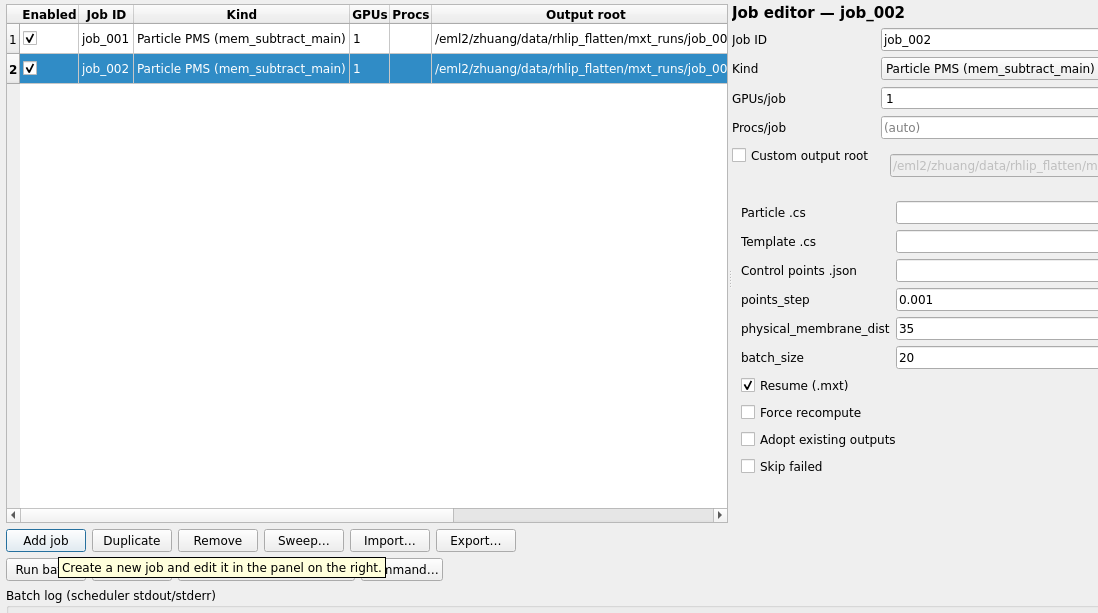
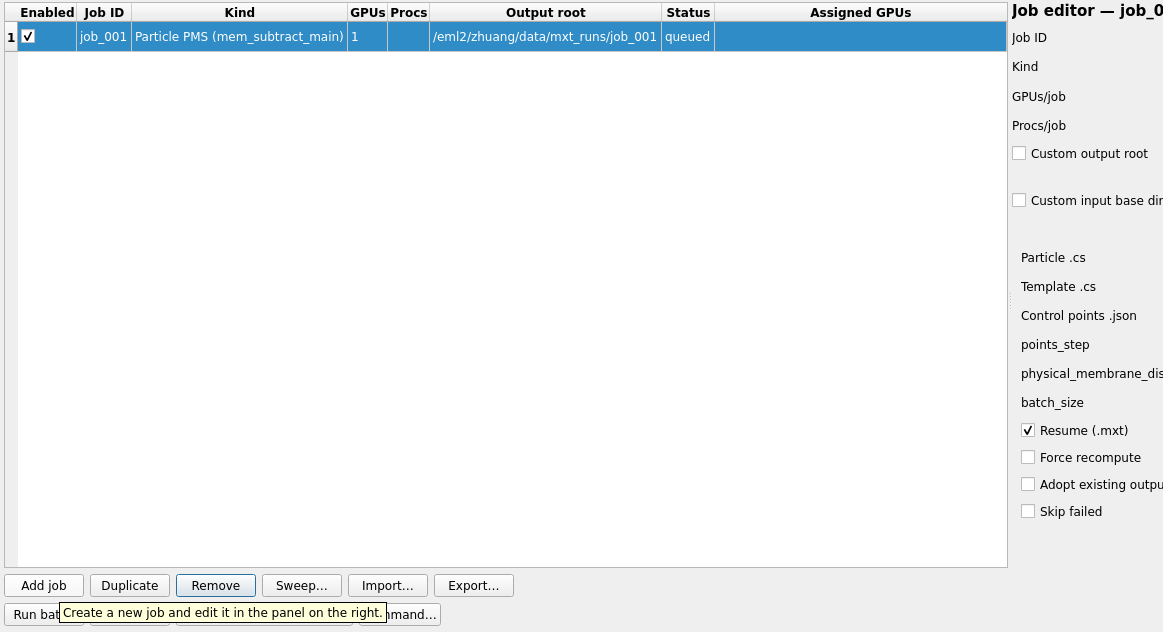
docs(Bezierfit): document and illustrate the input_base_dir parameter to resolve relative paths in CryoSPARC .cs and STAR files for both batch scheduler and CLI operations.

diff --git a/wiki/docs/tutorials/bezierfit-tutorials/bezierfit-batch-scheduler.md b/wiki/docs/tutorials/bezierfit-tutorials/bezierfit-batch-scheduler.md
@@ -44,6 +44,20 @@ Internally, the scheduler sets `CUDA_VISIBLE_DEVICES` for each job, so the job o
 
 Each job writes to its own isolated directory specified by `output_root`. This prevents jobs from interfering with each other and makes it easy to compare results from different parameter settings.
 
+### 2.4 Input Base Directory
+
+CryoSPARC `.cs` files and STAR files often contain **relative paths** (e.g., `J220/extract/particles.mrcs`). Because the batch scheduler runs each job with its working directory set to `<output_root>`, these relative paths may fail to resolve correctly, resulting in `FileNotFoundError`.
+
+The `input_base_dir` argument solves this by specifying the directory from which relative paths inside the input files should be resolved:
+
+* **Auto-inference (default)**: The scheduler automatically infers `input_base_dir` from your primary input file. For CryoSPARC layouts (where the `.cs` or `.star` file lives directly under a `J###/` folder), it infers the parent directory of that `J###/` folder (e.g., `/data/project/` if the input is `/data/project/J220/particles_selected.cs`).
+* **Manual override**: You can explicitly set `input_base_dir` if the auto-inferred value is incorrect or if your file layout differs from the standard CryoSPARC structure.
+
+![Before Auto-parse Input Base Directory](../../assets/images/batch_scheduler_autoparse_input_base_before.png){: .small}
+
+![Auto-parsed Input Base Directory](../../assets/images/batch_scheduler_autoparse_input_base_after.png){: .small}
+<span class="caption">Auto-parse Input Base Directory</span>
+
 For example, if you run two PMS jobs with different `points_step` values, you might use:
 
 * Job 1: `output_root = /runs/pms_step_0.001`
@@ -77,7 +91,14 @@ For each job, configure:
 * **Output Root**: Directory where this job's outputs will be written
 * **GPUs**: Number of GPUs required by this job
 * **Procs**: Number of worker processes (defaults to number of GPUs)
+* **Input Base Dir**: Base directory for resolving relative paths in input files (see below)
 * **Job-specific parameters**: File paths and processing options
+
+!!! Note "Per-Job Input Base Directory"
+    Each job has an **Input Base Dir** field with a **Custom input base dir** checkbox and a **Browse** button.
+
+    - **Default (recommended)**: Leave **Custom input base dir** unchecked. The field shows the auto-inferred value (read-only) based on your primary input file.
+    - **Manual override**: If the auto-inferred path is incorrect (e.g., non-standard CryoSPARC layout), check **Custom input base dir** and browse to the correct CryoSPARC project root (the directory containing the `J###/` folders) or the directory that makes the relative paths inside your `.cs`/`.star` resolve correctly.
 
 ### 3.3 Create Parameter Sweeps
 
@@ -159,6 +180,7 @@ The CLI uses a JSON specification file. Here's a minimal example that runs two P
         "control_points": "/path/to/control_points.json",
         "points_step": 0.001,
         "physical_membrane_dist": 35,
+        "input_base_dir": "/path/to/cryosparc_project",
         "resume": true
       }
     },
@@ -177,12 +199,16 @@ The CLI uses a JSON specification file. Here's a minimal example that runs two P
         "control_points": "/path/to/control_points.json",
         "points_step": 0.002,
         "physical_membrane_dist": 35,
+        "input_base_dir": "/path/to/cryosparc_project",
         "resume": true
       }
     }
   ]
 }
 ```
+
+!!! Tip "Exported JSON includes input_base_dir"
+    When you export a batch specification from the GUI, `input_base_dir` is explicitly included in each job's `args` for reproducibility, even if it was auto-inferred.
 
 ### 4.2 Run the Batch
 
@@ -223,6 +249,7 @@ Optional CLI overrides:
 | `points_step` | Yes | Bezier curve sampling step (e.g., 0.001) |
 | `physical_membrane_dist` | Yes | Membrane thickness in Å (e.g., 35) |
 | `batch_size` | No | Minibatch size (default: 20) |
+| `input_base_dir` | No | Base directory for resolving relative paths in input files (auto-inferred from input file if not set) |
 | `resume` | No | Resume from `.mxt` checkpoints (default: true) |
 | `force` | No | Force recompute all (default: false) |
 
@@ -232,6 +259,7 @@ Optional CLI overrides:
 |----------|----------|-------------|
 | `particle` | Yes | Path to `particles_selected.star` |
 | `batch_size` | No | Minibatch size (default: 30) |
+| `input_base_dir` | No | Base directory for resolving relative paths in input files (auto-inferred from input file if not set) |
 | `resume` | No | Resume from `.mxt` checkpoints (default: true) |
 | `require_particle_mxt` | No | Require PMS completion (default: true) |
 
@@ -326,6 +354,23 @@ For PMS jobs, subtracted particles appear in:
 ```
 
 ## 6 Troubleshooting
+
+### FileNotFoundError on Relative Paths (J###/extract/...)
+
+If jobs fail with errors like:
+
+```
+FileNotFoundError: [Errno 2] No such file or directory: 'J220/extract/particles.mrcs'
+```
+
+This occurs because CryoSPARC `.cs` and STAR files often store **relative paths** (e.g., `J220/extract/...`). The batch scheduler runs each job with its working directory set to `<output_root>`, so these relative paths cannot be resolved.
+
+**Solution:** Set `input_base_dir` to your CryoSPARC project root (the directory containing `J###` folders):
+
+* **GUI**: In the job's **Input Base Dir** field, check **Custom input base dir** and browse to your CryoSPARC project directory.
+* **CLI/JSON**: Add `"input_base_dir": "/path/to/cryosparc_project"` to the job's `args` section.
+
+In most cases, the auto-inferred value should work correctly. If you see this error, verify that the inferred path matches your CryoSPARC project layout.
 
 ### CuPy/CUDA Not Available
 

diff --git a/wiki/docs/tutorials/bezierfit-tutorials/bezierfit-mms.md b/wiki/docs/tutorials/bezierfit-tutorials/bezierfit-mms.md
@@ -62,3 +62,12 @@ In the `subtracted` folder, you will find all the `.mrc` files of the micrograph
 
 !!! Note
     The orginal micrographs don't have to be in the `motioncorrected` folder. The software will take the second folder in the directory as the original micrographs folder. For exmaple, in the `particles_selected.star` file, the `rlnMicrographName` column contains the path like `Jxxx/import/xxxmicrograph.mrc`. Then the software will take the `import` folder as the original micrographs folder and create a `subtracted` folder next to it.
+
+!!! Tip "Running from a Different Directory (CLI)"
+    STAR files often contain relative paths like `J220/import/...`. If you run the CLI from a directory other than your CryoSPARC project root, use the `--input_base_dir` flag to specify where these relative paths should be resolved from:
+
+    ```bash
+    python -m memxterminator.bezierfit.bin.micrograph_mem_subtract_main ... --input_base_dir /path/to/cryosparc_project
+    ```
+
+    The batch scheduler handles this automatically (see [Batch Scheduler](./bezierfit-batch-scheduler.md)).

diff --git a/wiki/docs/tutorials/bezierfit-tutorials/bezierfit-mem-analysis.md b/wiki/docs/tutorials/bezierfit-tutorials/bezierfit-mem-analysis.md
@@ -46,6 +46,15 @@ After setting the appropriate parameters, click `Launch` to start the analysis a
 !!! Note
     The Bezierfit Membrane Analysis process will be much slower than Radonfit Membrane Analysis, as it involves more complex curve fitting and optimization, and each time can only process one 2D average.
 
+!!! Tip "Running from a Different Directory (CLI)"
+    CryoSPARC `.cs` files often contain relative paths like `J220/extract/...`. If you run the CLI from a directory other than your CryoSPARC project root, use the `--input_base_dir` flag to specify where these relative paths should be resolved from:
+
+    ```bash
+    python -m memxterminator.bezierfit.bin.mem_analyze_main ... --input_base_dir /path/to/cryosparc_project
+    ```
+
+    The batch scheduler handles this automatically (see [Batch Scheduler](./bezierfit-batch-scheduler.md)).
+
 ## 3 Results
 
 You will obtain a `JSON` file containing `control_points` information for all templates. This `JSON` file can be used in the next step of Particles Membrane Subtraction.

diff --git a/wiki/docs/tutorials/bezierfit-tutorials/bezierfit-particle-mem-subtraction.md b/wiki/docs/tutorials/bezierfit-tutorials/bezierfit-particle-mem-subtraction.md
@@ -70,3 +70,12 @@ This folder contains all the `.mrc` files of the particles with membrane signals
 
 !!! Warning
     Like Radonfit Particle Membrane Subtraction, please note that the software can only recognize the `extract` folder in the `Jxxx` folder, and usually in the `'blob/path'` column of the `particles_selected.cs` file.
+
+!!! Tip "Running from a Different Directory (CLI)"
+    CryoSPARC `.cs` files often contain relative paths like `J220/extract/...`. If you run the CLI from a directory other than your CryoSPARC project root, use the `--input_base_dir` flag to specify where these relative paths should be resolved from:
+
+    ```bash
+    python -m memxterminator.bezierfit.bin.mem_subtract_main ... --input_base_dir /path/to/cryosparc_project
+    ```
+
+    The batch scheduler handles this automatically (see [Batch Scheduler](./bezierfit-batch-scheduler.md)).
